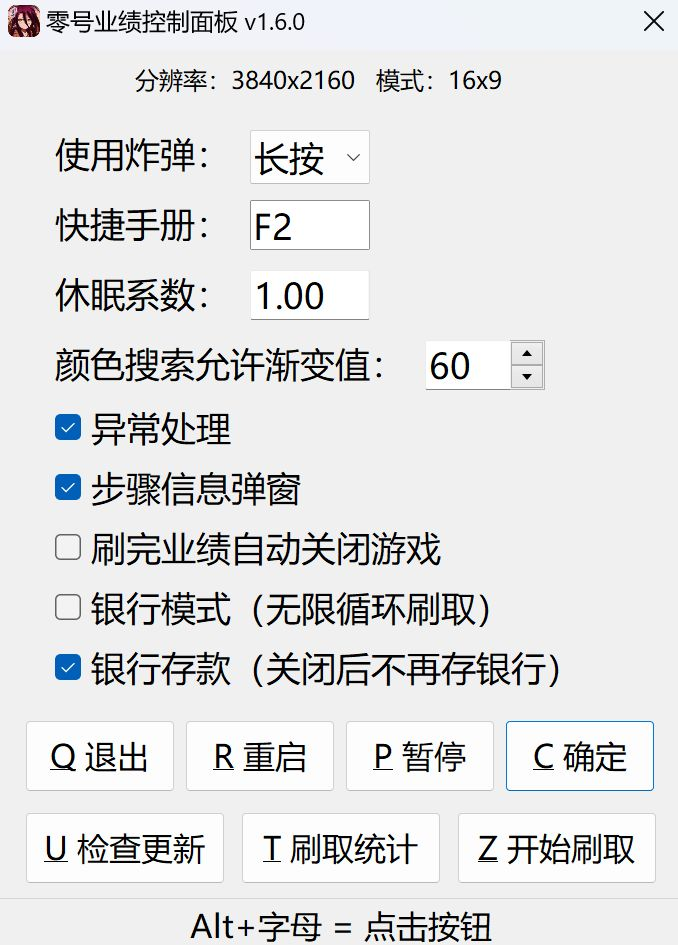
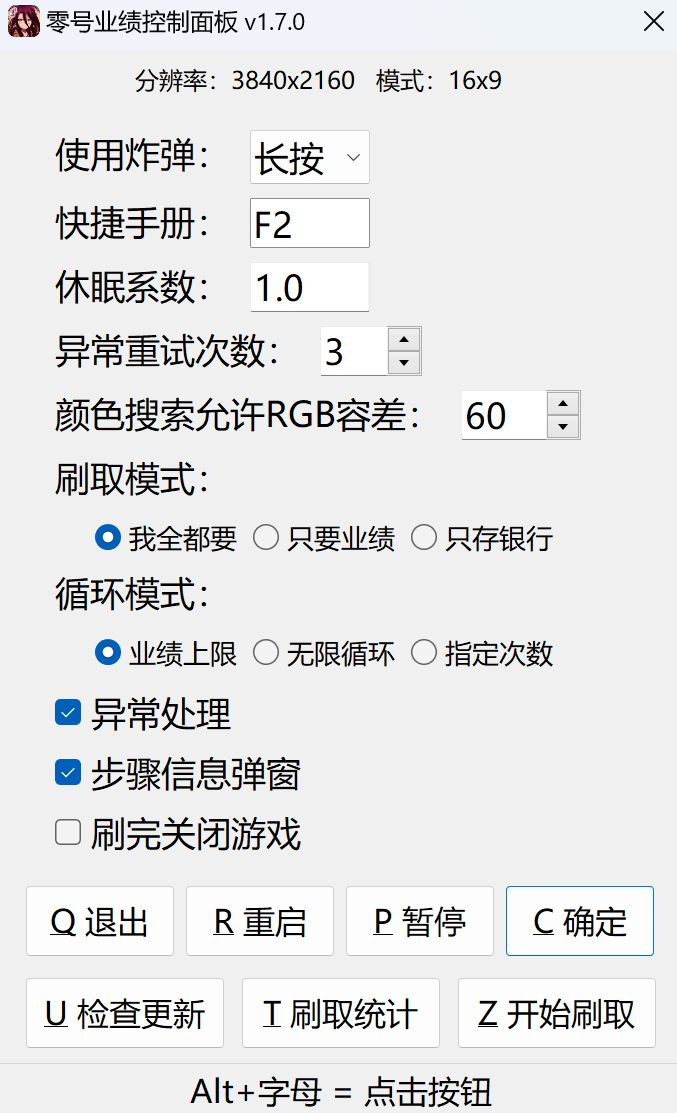
优化控制面板效果 优化配置项 减小侵蚀物资优先级等

diff --git a/README.md b/README.md
@@ -24,21 +24,22 @@
 
 - 方法二（适合想要diy的用户）：
 
-    克隆或下载源码（需已安装好[autohotkey](https://www.autohotkey.com) v2版解释器），运行零号业绩.ahk文件
+    克隆/下载源码（需已安装好[autohotkey](https://www.autohotkey.com) v2版解释器），运行[零号业绩.ahk](./零号业绩.ahk)文件
 
 ## 使用方法
 
 - Alt+P ：暂停/恢复刷取，快捷指令，也可通过控制面板修改
 - Alt+C ：打开/关闭[控制面板](./控制面板.jpg)，相关信息：
-    > **快捷手册**：修改打开快捷手册的快捷键，默认F2
-    > <br>**炸弹使用**：修改邦布插件快捷使用方式：长按或点击
+    > **使用炸弹**：修改邦布插件快捷使用方式：长按/点击
+    > <br>**快捷手册**：修改打开快捷手册的快捷键，默认F2
     > <br>**休眠系数**：调整脚本在加载动画时的等待时长倍率
-    > <br>**颜色搜索允许渐变值**：对画面区域进行颜色搜索时允许的RGB渐变值，值越大颜色匹配范围越大，0~255
-    > <br>**异常处理**：关闭后，出现任何意料之外的情况都将直接结束刷取并抛出错误，用于排查错误原因
+    > <br>**异常重试次数**：允许总的异常时重试的次数
+    > <br>**颜色搜索允许RGB容差**：过大可能误点，过小可能匹配失败，按需调整
+    > <br>**刷取模式**：业绩+银行 / 只要业绩 / 只存银行
+    > <br>**循环模式**：刷至业绩达周上限 / 无限循环 / 指定刷取次数
+    > <br>**异常处理**：关闭后，任何意料之外的情况都将直接结束刷取并抛出错误，用于排查错误原因
     > <br>**步骤信息弹窗**：是否输出刷取过程中每个步骤的信息弹窗
-    > <br>**刷完业绩自动关闭游戏**：刷取业绩达到周上限则关闭游戏，开启银行模式后此项无效
-    > <br>**银行模式**：开启后，无论零号业绩是否达到周上限，都会无限循环刷取，用于刷取银行存款
-    > <br>**银行存款**：关闭后不再存银行，获取零号业绩后直接退出副本结算循环
+    > <br>**刷完关闭游戏**：业绩达周上限/达指定刷取次数 则关闭游戏；开启无限循环后此项无效
     > <br>**退出**：退出脚本
     > <br>**重启**：重启脚本，修改缩放、分辨率后建议重启脚本
     > <br>**暂停**：暂停当前刷取线程，可使用Alt+P快捷暂停/恢复
@@ -65,6 +66,7 @@
 <br>若仍无法正常运行，请提出[issue](https://gitee.com/UCPr251/zzzAuto/issues/new?template=bug.yml)并按照[issue](https://gitee.com/UCPr251/zzzAuto/issues/new?template=bug.yml)模板描述提供所需信息
 
 3. 由于电脑配置的差异，实际动画加载时长可能比预设的更久进而导致错误，可使用Alt+C呼出控制面板微调 **休眠系数** 延长全局的等待时长
+    > 如果你的电脑配置足够好，当然也可以尝试缩小休眠系数以压缩刷取时长
 
 4. 战斗按照鲨鱼妹设计，其他角色只要哪怕一直a都能S评价即可
     > 战斗时长一般在15~50s以内，超过50s建议换个角色
